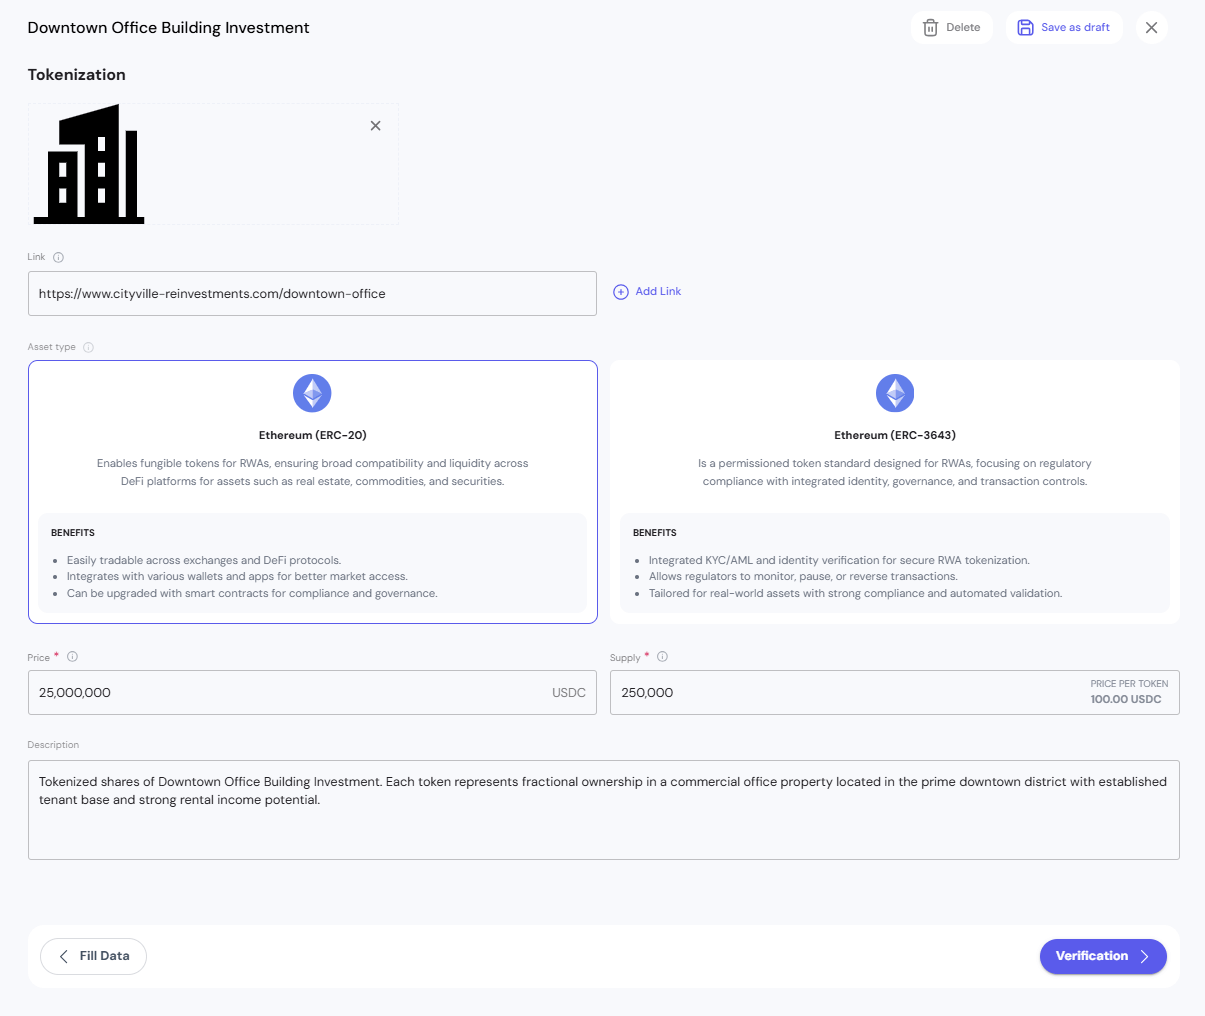
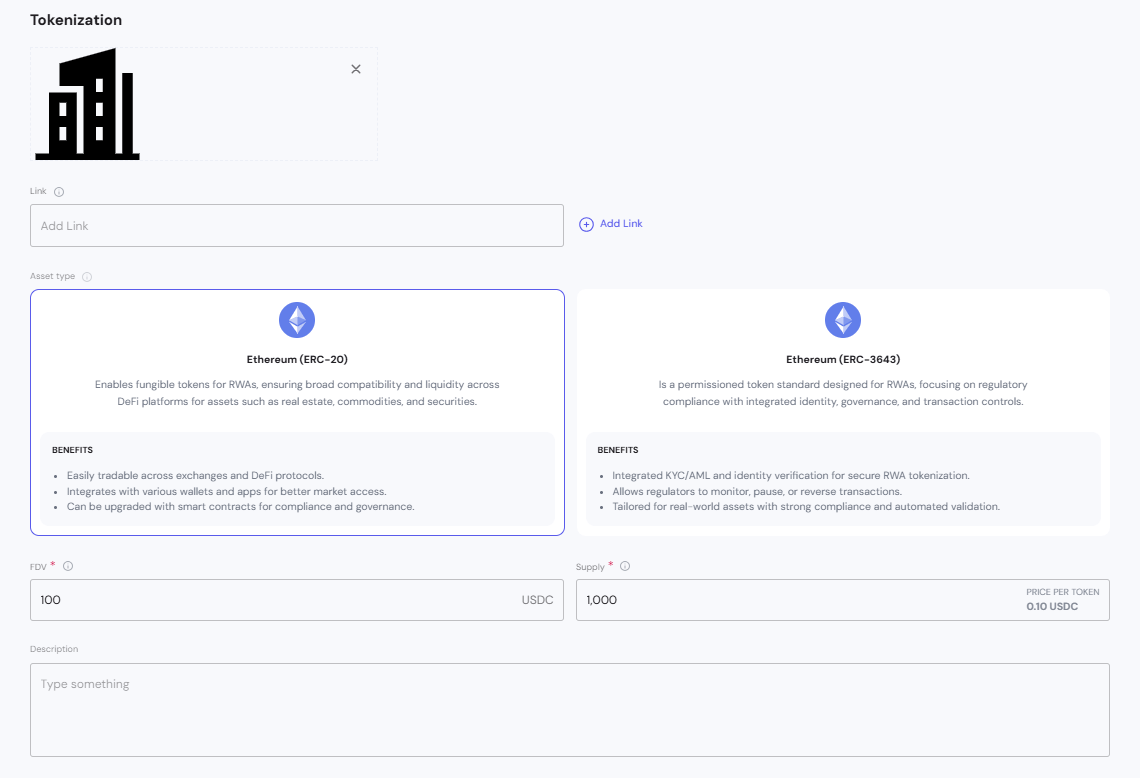
feat(documentation): assets - my templates - improvements. #211

diff --git a/docs/assets/how-tos/index.md b/docs/assets/how-tos/index.md
@@ -177,6 +177,9 @@ When creating assets, you can choose between **ERC-20** (fungible tokens) and **
 > - Use **ERC-3643** when compliance with financial regulations is required.  
 
 **Token Economic Configuration:**
+
+![Token Economic Configuration](../../../../documentation/static/img/front-end/assets/how-tos/assets-tokenization-fdv.png)
+
 - **FDV**: Fully Diluted Valuation in USDC. FDV is calculated as token price × total supply and represents the total value of the asset if all tokens were in circulation.  
 - **Supply**: The total number of tokens that will ever exist. The price per token is automatically calculated as FDV ÷ Supply.  
 - **Price per Token**: Automatically calculated and displayed in the UI as FDV ÷ Supply. This value updates dynamically as FDV or Supply changes.
